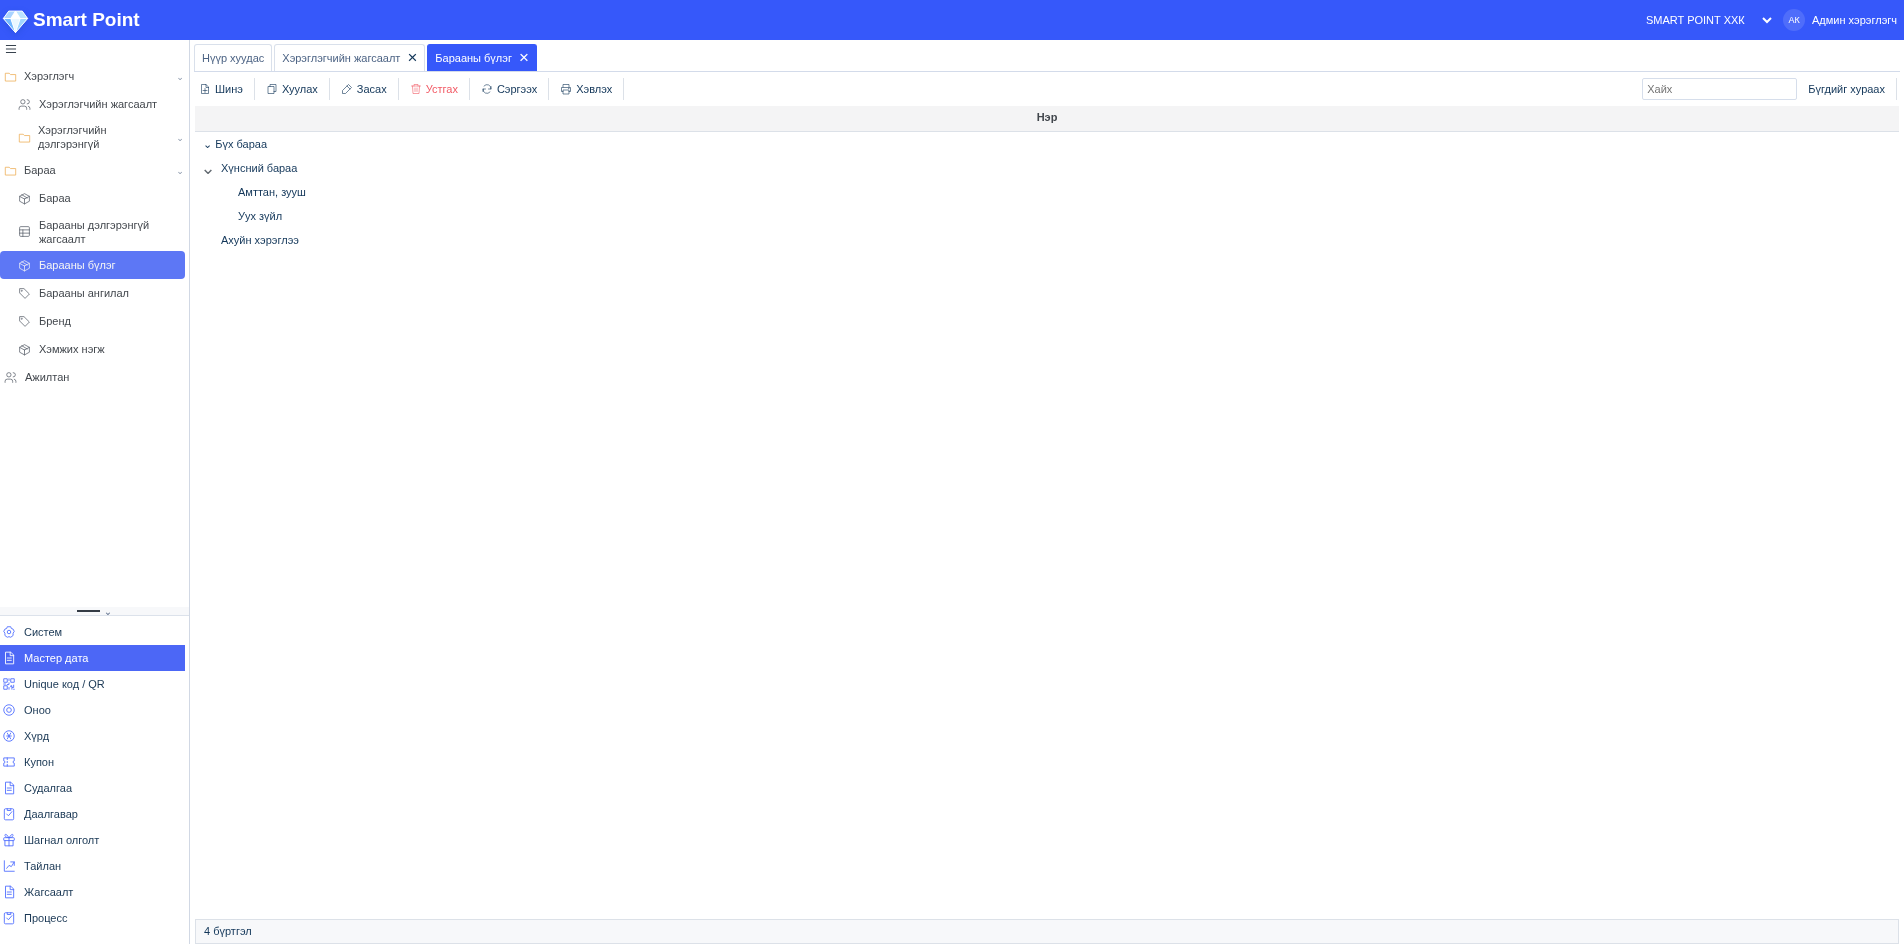
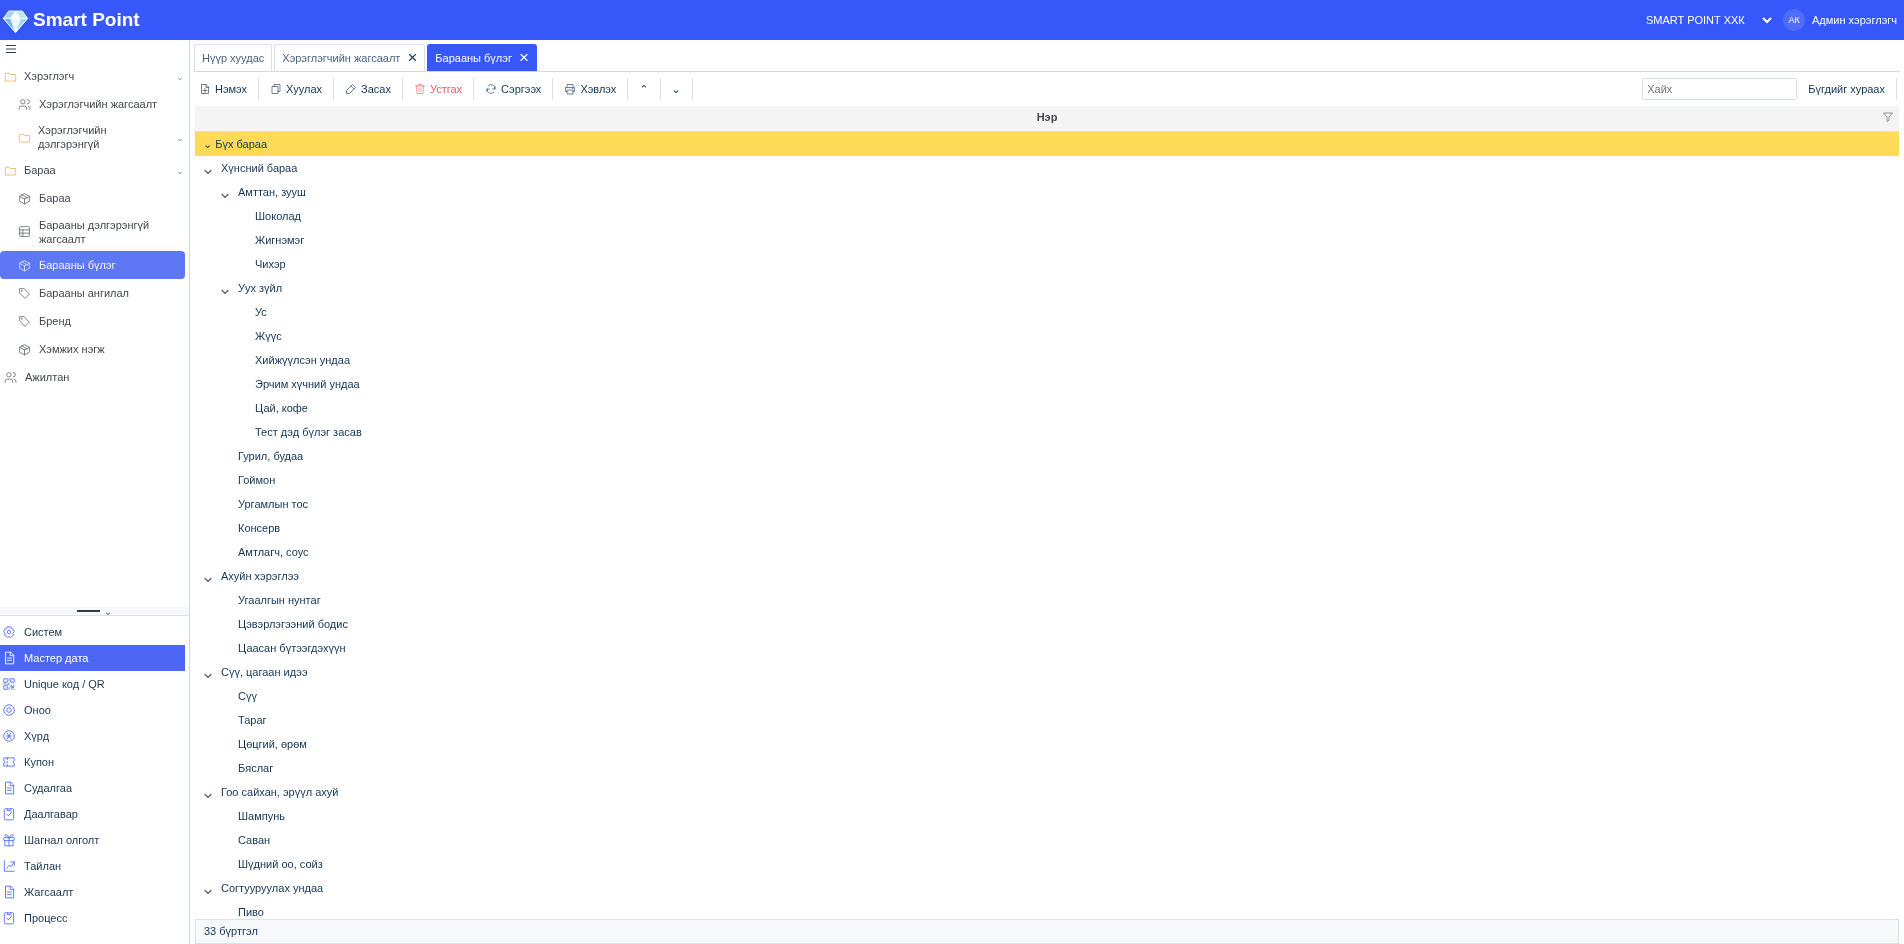
Match group tree and compact Smart reference registration windows

diff --git a/assets/app.js b/assets/app.js
@@ -284,7 +284,7 @@ $('productImageFile').onchange=async e=>{const file=e.target.files[0];if(!file)r
 form.onsubmit=e=>{e.preventDefault();if(!imageReady)return;const values=new FormData(form),item={...p};if(form.elements.groupCode)item.groupCode=String(values.get('groupCode')||'');if(form.elements.goodsType)item.type=String(values.get('goodsType')||'Бараа материал');for(const key of ['code','name','category','brand','unit','barcode','account','validFrom','validTo'])item[key]=String(values.get(key)||'').trim();item.code=item.code.toUpperCase();item.price=Number(values.get('price'));item.standardCost=Number(values.get('standardCost'));item.purchasePrice=Number(values.get('purchasePrice'));item.points=Number(values.get('points'));item.pointsValidDays=Number(values.get('pointsValidDays'));for(const key of ['isSalesItem','active','vat','cityTax'])item[key]=values.has(key);item.useUnique=values.get('useUnique')==='yes';if(!item.useUnique){item.validFrom='';item.validTo='';}item.image=p.image||'default';if(imageData)item.imageData=imageData;
 const error=$('productFormError');if(['code','name','category','brand','unit'].some(k=>!item[k])){error.textContent='Заавал бөглөх мэдээллээ бүрэн оруулна уу.';return;}if(!/^[A-Z0-9_-]+$/.test(item.code)){error.textContent='Кодод латин үсэг, тоо, зураас ашиглана уу.';return;}if(productDetails.some(p=>p!==existing&&p.code.toUpperCase()===item.code)){error.textContent='Энэ барааны код бүртгэлтэй байна.';return;}if(!categoryNames().includes(item.category)||!brandData.includes(item.brand)||!unitData.includes(item.unit)){error.textContent='Бүртгэлтэй ангилал, брэнд, хэмжих нэгж сонгоно уу.';return;}if([item.price,item.standardCost,item.purchasePrice].some(v=>!Number.isFinite(v)||v<0||v>1000000000)||!Number.isInteger(item.points)||item.points<0||item.points>1000000000||!Number.isInteger(item.pointsValidDays)||item.pointsValidDays<0||item.pointsValidDays>3650){error.textContent='Өртөг, үнэ болон олгох оноог зөв оруулна уу.';return;}if(item.validFrom&&item.validTo&&item.validFrom>item.validTo){error.textContent='Дуусах огноо нь эхлэх огнооноос өмнө байж болохгүй.';return;}
 const index=existing?productDetails.indexOf(existing):-1,previous=db.products,oldAudit=db.pointAudit;if(existing&&(existing.points!==item.points||effectivePointDays(existing)!==item.pointsValidDays))db.pointAudit=[{date:new Date().toISOString(),actor:'Админ хэрэглэгч (тест)',reason:'Барааны мэдээллээс оноо шинэчилсэн',changes:[{code:item.code,name:item.name,before:existing.points,after:item.points,beforeDays:effectivePointDays(existing),afterDays:item.pointsValidDays}]},...(db.pointAudit||[])];if(index>=0)productDetails[index]=item;else productDetails.unshift(item);db.products=productDetails;if(!save()){if(index>=0)productDetails[index]=existing;else productDetails.shift();db.products=previous;db.pointAudit=oldAudit;error.textContent='Хадгалах боломжгүй. Хадгалах зай, зөвшөөрлийг шалгана уу.';return;}productList.splice(0,productList.length,...productDetails.map(p=>[p.code,p.name]));$('dialog').close();expandedMenus.add('products');selectedAdmin=selectedAdmin==='product-details'?'product-details':'product-list';page=selectedAdmin;render();toast(existing?'Барааны мэдээлэл шинэчлэгдлээ':'Шинэ бараа нэмэгдлээ');};}
-$('dialog').addEventListener('close',()=>{if(!$('dialog').open)$('dialog').classList.remove('product-form-dialog','qr-dialog','wheel-prize-dialog','coupon-form-dialog','engagement-dialog','settings-dialog','goods-reference-dialog','goods-product-dialog')});
+$('dialog').addEventListener('close',()=>{if(!$('dialog').open)$('dialog').classList.remove('product-form-dialog','qr-dialog','wheel-prize-dialog','coupon-form-dialog','engagement-dialog','settings-dialog','goods-reference-dialog','goods-product-dialog','goods-group-dialog','goods-group-maximized','goods-simple-reference-dialog')});
 function bindProductActions(){document.querySelectorAll('[data-edit]').forEach(b=>b.onclick=()=>openProductForm(productDetails.find(p=>p.code===b.dataset.edit)));document.querySelectorAll('[data-detail]').forEach(b=>b.onclick=()=>{const p=productDetails.find(p=>p.code===b.dataset.detail);modal('Барааны мэдээлэл',`<img class="product-detail-image" src="${esc(productImage(p))}" alt="${esc(p.name)}"><h2>${esc(p.name)}</h2><dl class="detail-specs">${[['Барааны код',p.code],['Ангилал',p.category],['Брэнд',p.brand],['Хэмжих нэгж',p.unit],['Бар код',p.barcode||'—'],['Үнэ',fmt(p.price)+' ₮'],['Идэвхтэй эсэх',p.active?'Тийм':'Үгүй'],['НӨАТ',p.vat?'Тийм':'Үгүй'],['НХАТ',p.cityTax?'Тийм':'Үгүй'],['Олгох оноо',fmt(p.points)],['Онооны хүчинтэй хоног',pointDaysLabel(effectivePointDays(p))],['Unique код',p.useUnique?'Ашиглана':'Ашиглахгүй'],['Код эхлэх огноо',p.validFrom||'Хязгааргүй'],['Код дуусах огноо',p.validTo||'Хязгааргүй']].map(([label,value])=>`<div><dt>${label}</dt><dd>${esc(value)}</dd></div>`).join('')}</dl><button id="editProductDetail" class="primary">Мэдээлэл засах</button>`);$('editProductDetail').onclick=()=>{$('dialog').close();openProductForm(p)}});document.querySelectorAll('[data-product-code]').forEach(b=>b.onclick=()=>{go('code-generate');$('codeProduct').value=b.dataset.productCode;$('codeProduct').dispatchEvent(new Event('change'));$('codeQuantity').focus()})}
 
 function codes(){return codeWorkspace(selectedAdmin)}

diff --git a/index.html b/index.html
@@ -1,1 +1,1 @@
-<!doctype html><html lang="mn"><head><meta charset="utf-8"><meta name="viewport" content="width=device-width,initial-scale=1"><title>Smart Point Admin • Удирдлагын систем</title><link rel="icon" type="image/svg+xml" href="assets/point-gem.svg"><link rel="stylesheet" href="assets/style.css?v=20261028-goods-prices"><link rel="stylesheet" href="assets/workspace-shell.css?v=20261028-goods-prices"><link rel="stylesheet" href="assets/smart-standard.css?v=20261028-goods-prices"></head><body><header><button id="mobileMenu" aria-label="Цэс нээх" onclick="document.getElementById('menu').click()">☰</button><strong class="brand-logo"><img src="assets/point-gem.svg" alt="Point Gem" width="29" height="29"><span>Smart Point</span></strong><span class="header-right"><select id="organizationPicker" aria-label="Байгууллага солих"></select> <span class="avatar">АК</span> Админ хэрэглэгч</span></header><aside id="sidebar"><div class="sidebar-topbar"><button id="menu" aria-label="Цэс">☰</button></div><p class="muted">УДИРДЛАГА</p><nav id="nav"></nav><div class="sidebar-bottom">Smart Point v0.1<br><small>Туршилтын орчин • Local demo</small></div></aside><main><div class="title-row"><div><h1 id="title"></h1><p id="subtitle"></p></div></div><div id="view"></div><footer>Танилцуулгын хувилбар · Өгөгдөл зөвхөн энэ браузерт хадгалагдана. Бодит мөнгө, үйлдвэрлэлийн QR болон шагналтай холбогдоогүй.</footer></main><dialog id="dialog"><h2 id="dialogTitle"></h2><div id="dialogBody"></div><button id="close">Хаах</button></dialog><div id="toast" role="status"></div><script src="assets/vendor/qrcode.js"></script><script src="assets/codes.js?v=20261028-goods-prices"></script><script src="assets/points.js?v=20261028-goods-prices"></script><script src="assets/wheels.js?v=20261028-goods-prices"></script><script src="assets/coupons.js?v=20261028-goods-prices"></script><script src="assets/engagement.js?v=20261028-goods-prices"></script><script src="assets/admin-settings.js?v=20261028-goods-prices"></script><script src="assets/workspace-shell.js?v=20261028-goods-prices"></script><script src="assets/logs.js?v=20261028-goods-prices"></script><script src="assets/user-grid.js?v=20261028-goods-prices"></script><script src="assets/goods.js?v=20261028-goods-prices"></script><script src="assets/app.js?v=20261028-goods-prices"></script></body></html>
+<!doctype html><html lang="mn"><head><meta charset="utf-8"><meta name="viewport" content="width=device-width,initial-scale=1"><title>Smart Point Admin • Удирдлагын систем</title><link rel="icon" type="image/svg+xml" href="assets/point-gem.svg"><link rel="stylesheet" href="assets/style.css?v=20261028-reference-windows"><link rel="stylesheet" href="assets/workspace-shell.css?v=20261028-reference-windows"><link rel="stylesheet" href="assets/smart-standard.css?v=20261028-reference-windows"></head><body><header><button id="mobileMenu" aria-label="Цэс нээх" onclick="document.getElementById('menu').click()">☰</button><strong class="brand-logo"><img src="assets/point-gem.svg" alt="Point Gem" width="29" height="29"><span>Smart Point</span></strong><span class="header-right"><select id="organizationPicker" aria-label="Байгууллага солих"></select> <span class="avatar">АК</span> Админ хэрэглэгч</span></header><aside id="sidebar"><div class="sidebar-topbar"><button id="menu" aria-label="Цэс">☰</button></div><p class="muted">УДИРДЛАГА</p><nav id="nav"></nav><div class="sidebar-bottom">Smart Point v0.1<br><small>Туршилтын орчин • Local demo</small></div></aside><main><div class="title-row"><div><h1 id="title"></h1><p id="subtitle"></p></div></div><div id="view"></div><footer>Танилцуулгын хувилбар · Өгөгдөл зөвхөн энэ браузерт хадгалагдана. Бодит мөнгө, үйлдвэрлэлийн QR болон шагналтай холбогдоогүй.</footer></main><dialog id="dialog"><h2 id="dialogTitle"></h2><div id="dialogBody"></div><button id="close">Хаах</button></dialog><div id="toast" role="status"></div><script src="assets/vendor/qrcode.js"></script><script src="assets/codes.js?v=20261028-reference-windows"></script><script src="assets/points.js?v=20261028-reference-windows"></script><script src="assets/wheels.js?v=20261028-reference-windows"></script><script src="assets/coupons.js?v=20261028-reference-windows"></script><script src="assets/engagement.js?v=20261028-reference-windows"></script><script src="assets/admin-settings.js?v=20261028-reference-windows"></script><script src="assets/workspace-shell.js?v=20261028-reference-windows"></script><script src="assets/logs.js?v=20261028-reference-windows"></script><script src="assets/user-grid.js?v=20261028-reference-windows"></script><script src="assets/goods.js?v=20261028-reference-windows"></script><script src="assets/app.js?v=20261028-reference-windows"></script></body></html>

diff --git a/assets/smart-standard.css b/assets/smart-standard.css
@@ -39,3 +39,7 @@
 .goods-grid th,.goods-grid th button{white-space:normal;overflow-wrap:break-word}
 .goods-grid .goods-wide-table{min-width:2750px}.goods-product-dialog .product-checks{grid-template-columns:1fr 1fr}.goods-product-dialog .product-form-grid input[name=standardCost],.goods-product-dialog .product-form-grid input[name=purchasePrice],.goods-product-dialog .product-form-grid input[name=price]{text-align:right}
 .goods-product-dialog .product-checks{display:grid;grid-template-columns:1fr 1fr}.goods-product-dialog .product-checks label{display:flex;align-items:center;gap:7px}.goods-product-dialog .product-checks input[type=checkbox]{width:16px;height:16px;min-width:0;margin:0;padding:0;flex:none;accent-color:#3658fa}
+.goods-reference-grid>.goods-grid-heading{position:relative}.goods-group-filter-icon{position:absolute;right:5px;color:#7c8289}.goods-group-filter-icon svg{width:12px;height:12px}#dialog.goods-group-dialog{width:550px;max-width:calc(100vw - 20px);padding:0;border:1px solid #cbd3df;border-radius:5px;max-height:calc(100dvh - 20px);overflow:auto;font:12px Arial,sans-serif}#dialog.goods-group-dialog::backdrop{background:#0008}#dialog.goods-group-dialog #dialogTitle{height:30px;display:flex;align-items:center;justify-content:space-between;padding:5px 8px;font-size:14px;font-weight:600;background:#f4f4f4}.group-window-actions{display:flex;gap:9px}#dialog.goods-group-dialog .group-window-actions button{display:grid;place-items:center;margin:0;width:21px;height:20px;min-height:20px;border:0;background:transparent;color:#666b70;font-size:21px;line-height:20px;padding:0}#dialog.goods-group-dialog>#close{display:none}.goods-group-dialog .goods-form-commands{height:32px;display:flex;align-items:center;gap:12px;padding:3px 6px}.goods-group-dialog .goods-form-commands>button{font-size:11px;white-space:nowrap;gap:3px}.goods-group-tools{display:flex;align-items:center;margin-left:auto;gap:0}.goods-group-tools>span{color:#159aff;font-size:11px;margin-right:5px}.goods-group-dialog .goods-group-tools button{margin:0;display:grid;place-items:center;border:0;width:22px;min-width:18px;min-height:22px;padding:0;background:transparent;color:#666d73;font-size:17px}.goods-group-tools button:disabled{opacity:.35;cursor:default}.goods-group-dialog .goods-group-tools #goodsGroupHelp{border-left:1px solid #d6dce5;margin-left:5px;padding-left:5px;width:26px;font-size:14px}.goods-group-dialog .goods-reference-fields{min-height:150px;margin:3px;border:1px solid #d5dce7;padding:5px 7px}.goods-group-dialog .goods-reference-fields label{grid-template-columns:165px 220px;min-height:25px;font-size:12px}.goods-group-dialog .goods-reference-fields label>input{width:220px;height:23px;font-size:12px}.group-parent-picker{display:flex;gap:2px;align-items:center;min-width:0}.goods-group-dialog .group-parent-picker select{width:86px;min-width:0;flex:0 0 86px;height:23px;font-size:11px;border-radius:2px 0 0 2px;appearance:none;padding:1px 4px}.goods-group-dialog .group-parent-picker button{margin:0 0 0 -3px;background:white;border:1px solid #d6ddea;border-left:0;border-radius:0 2px 2px 0;width:24px;height:23px;min-width:24px;padding:0;font-size:12px;color:#3a5b90}.goods-group-dialog .group-parent-picker input{width:0;flex:1;min-width:0;height:23px;border-radius:2px;background:#fafbfc;font-size:11px}.goods-group-dialog .goods-reference-fields .error{font-size:11px;margin:6px 0}.goods-group-maximized{width:calc(100vw - 20px)!important;height:calc(100dvh - 20px)}
+@media(max-width:600px){.goods-group-dialog .goods-form-commands{flex-wrap:wrap;min-height:32px;height:auto;gap:5px 12px}.goods-group-tools{width:100%;justify-content:flex-end}.goods-group-tools>span{margin-right:auto}.goods-group-dialog .goods-reference-fields label{grid-template-columns:125px minmax(0,1fr);font-size:11px}.goods-group-dialog .goods-reference-fields label>input{width:100%}.goods-group-dialog .group-parent-picker select{width:60px;flex-basis:60px}.goods-group-dialog .group-parent-picker button{width:21px;min-width:21px}}
+#dialog.goods-simple-reference-dialog{width:500px}.goods-simple-reference-dialog .goods-reference-fields{min-height:88px;padding:5px 7px}.goods-simple-reference-dialog .goods-reference-fields label{grid-template-columns:120px 230px;min-height:24px;font-size:11px}.goods-simple-reference-dialog .goods-reference-fields label>input{width:230px;height:23px;font-size:11px}.goods-simple-reference-dialog .goods-form-commands{gap:9px}.goods-simple-reference-dialog .goods-form-commands>button{font-size:10px}.goods-simple-reference-dialog .goods-group-tools>span{font-size:10px}.goods-simple-reference-dialog .goods-group-tools button{width:20px;min-width:16px}.goods-simple-reference-dialog .goods-group-tools #goodsGroupHelp{width:23px;margin-left:3px}.goods-simple-reference-dialog.goods-group-maximized{width:calc(100vw - 20px)!important}
+@media(max-width:600px){.goods-simple-reference-dialog .goods-reference-fields label{grid-template-columns:95px minmax(0,1fr)}.goods-simple-reference-dialog .goods-reference-fields label>input{width:100%}}

diff --git a/README.md b/README.md
@@ -214,3 +214,7 @@ Under Master Data, Products is now Goods (Бараа), with six Smart desktop sc
 Reference registers provide code/name search, sorting, create/copy/edit/delete and printing, with seeded examples. Reference renames propagate to products; groups support parent/child relationships. References already used by a product or subgroup cannot be deleted. Existing product codes are read-only to protect historical QR references. Removing a product archives it (inactive/deleted), retaining QR and ledger history. The same existing product form retains image, price, tax, QR and points settings and adds group/type fields. Local browser storage remains the persistence layer.
 
 Goods registration additionally stores an optional account code, standard unit cost, purchase/receipt price and sales-item flag. Existing `price` remains the sale price, now labeled Худалдах үнэ. Legacy records default new costs to zero and sales-item to true, preserving prior sale prices. Numeric costs/prices must be nonnegative. Detail grids, printing, copies and audit changes include these fields; the account is stored as a code, without an accounting-system connection.
+
+The goods-group register follows the supplied DemoCenter tree/window reference: 550px compact modal with title controls, Save & New / Save & Exit, edit/new state and record navigation. Its two visible fields are Код (the group's display identifier/name, matching the reference) and Харьяалагдах бүлэг (parent code/picker plus read-only name). Internal stable group IDs are retained for product links. Parent options exclude the edited group and descendants. Tree rows support double-click editing, collapse/expand, sibling ordering, and protected deletion. Untouched four-group starter directories receive richer sample subgroups once; custom directories are preserved.
+
+Category, brand and unit registration use the same 500px Smart reference window: exactly two visible fields (code/name), Save & New / Save & Exit, New/Edit state, first/previous/next/last navigation and maximize/close. Existing category descriptions remain stored while hidden from the compact editor. All reference validation, rename propagation and local persistence remain active.
